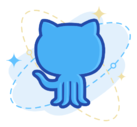
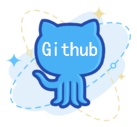
index

Changed region(s): [[0.292, 0.3307, 0.7299, 0.4488]]

diff --git a/index.html b/index.html
@@ -55,10 +55,10 @@
 				<h3><b>做自己爱做的事 爱自己在做的事</b></h3>
 			</center>
 			<br>
-			<img src="./github.png" title="Blog" alt="Blog" width='90' style='margin:9px;'onclick='window.open("https://lastsummer.top/blog")'/>
-			<img src="./github.png" title="Github" alt="Github" width='90' style='margin:9px;' onclick='window.open("https://github.com/wangrui15034005712")'/>
-			<img src="./github.png" title="Coding" alt="Coding" width='90' style='margin:9px;' onclick='window.open("https://dev.tencent.com/u/wangrui15034005712")'/>
-			<img src="./github.png" title="Game" alt="Game" width='90' style='margin:9px;' onclick='game()'/>        
+			<img src="./blog.png" title="Blog" alt="Blog" width='90' style='margin:9px;cursor:pointer;'onclick='window.open("https://lastsummer.top/blog")'/>
+			<img src="./github.png" title="Github" alt="Github" width='90' style='margin:9px;cursor:pointer;' onclick='window.open("https://github.com/wangrui15034005712")'/>
+			<img src="./coding.png" title="Coding" alt="Coding" width='90' style='margin:9px;cursor:pointer;' onclick='window.open("https://dev.tencent.com/u/wangrui15034005712")'/>
+			<img src="./game.png" title="Game" alt="Game" width='90' style='margin:9px;cursor:pointer;' onclick='game()'/>        
 		</div>
       </div>
 	
@@ -143,7 +143,7 @@
     </div>
   </div>
 </div>
-  <audio id="bgMusic" src="https://lastsummer.top/网络歌手 - 翻过这座山IG加油 (Live).mp3" loop="loop"></audio>
+  <audio id="bgMusic" src="网络歌手 - 翻过这座山IG加油 (Live).mp3" loop="loop"></audio>
   <script src="js/index.js"></script>
   <script type="text/javascript">
     // 两秒后模拟点击
